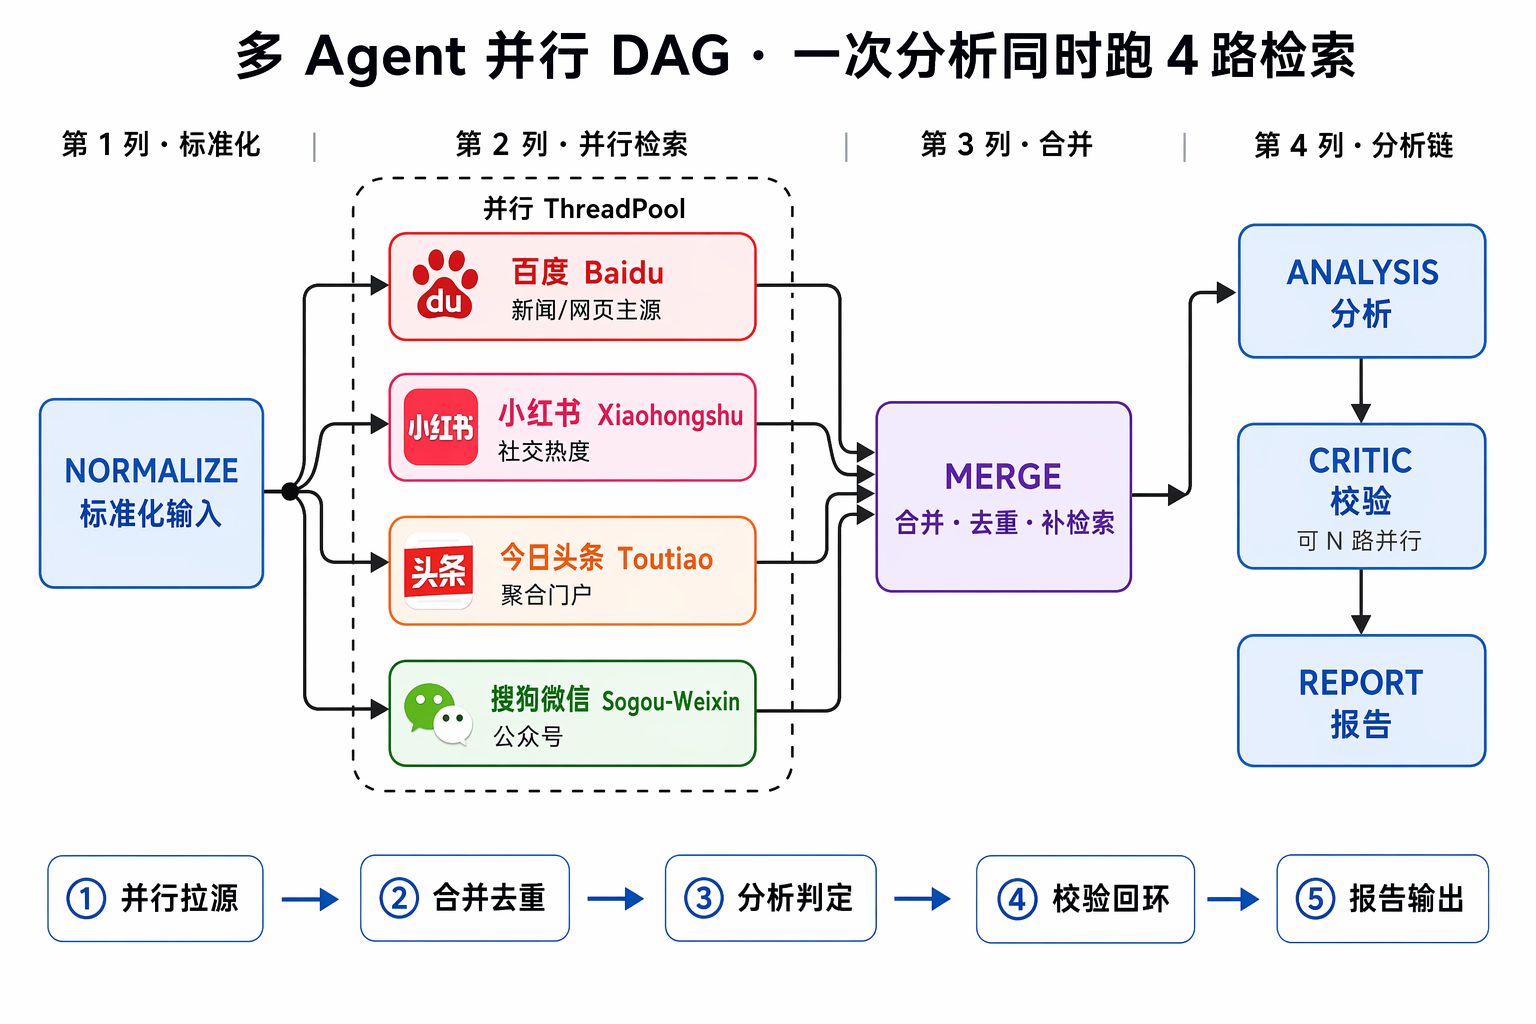
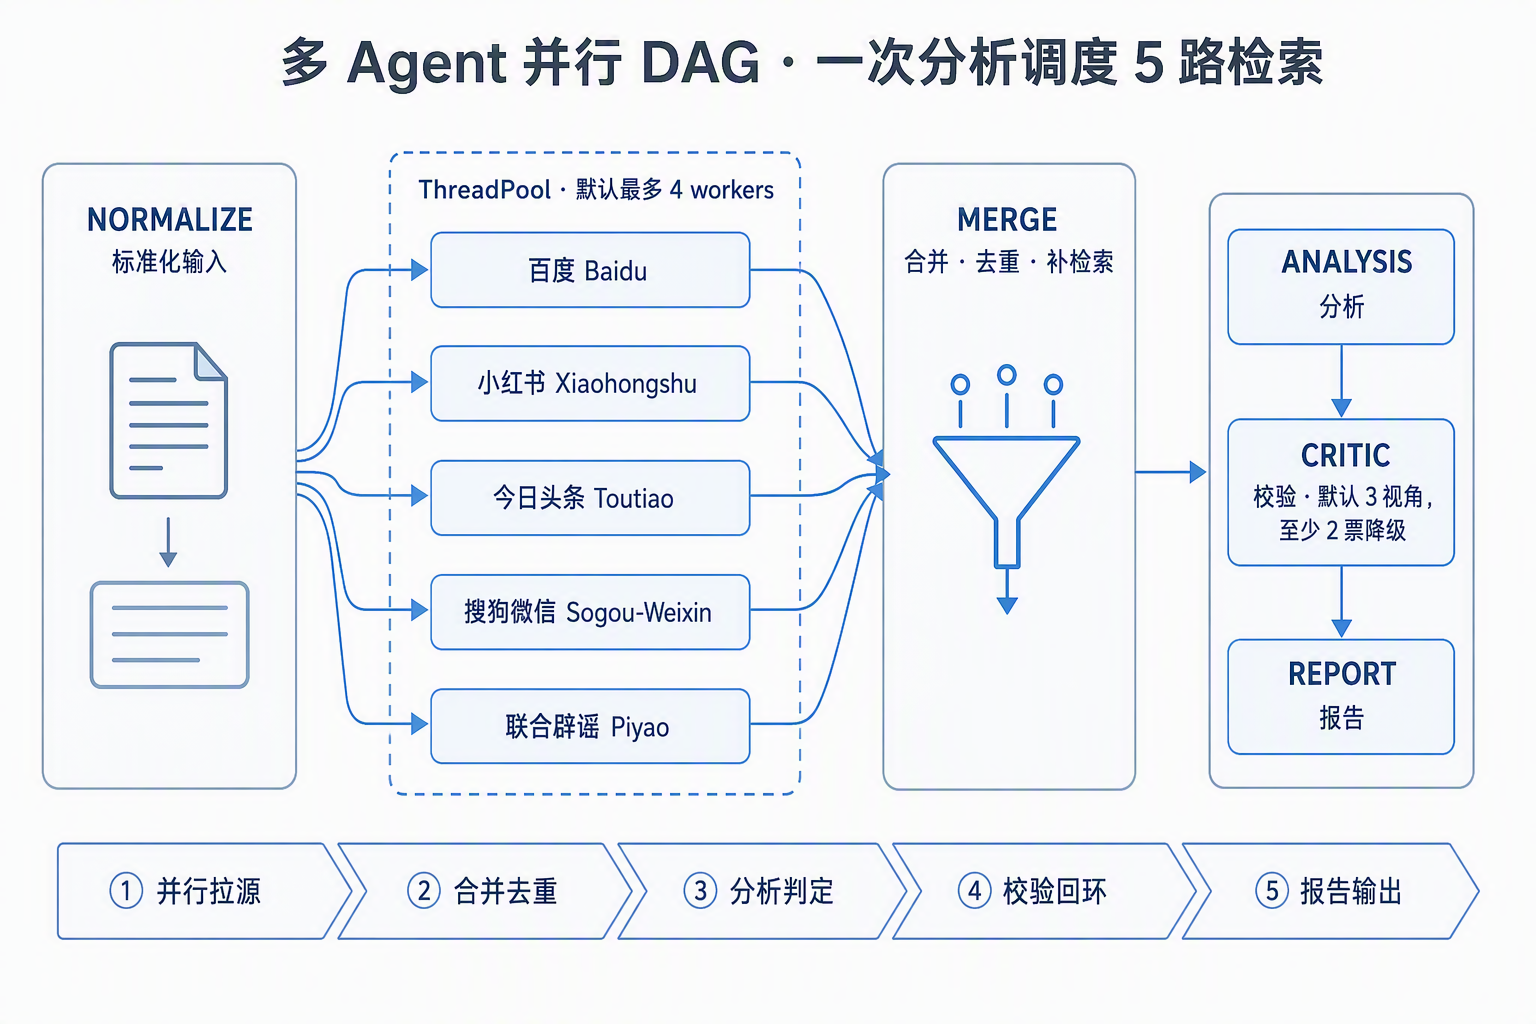
docs: align guides with current runtime

diff --git a/README.md b/README.md
@@ -35,7 +35,7 @@
 |  | 能力 | 关键特征 |
 |---|---|---|
 | 🎯 | **拆 claim 逐条判**  | 一条消息拆成原子事实，每条独立判 `属实 / 不实 / 证据不足 / 各方矛盾`，混合情况不粉饰 |
-| 🌐 | **4 路并行真检索**  | 百度 + 小红书 + 今日头条 + 搜狗微信，同一时刻并发拉取，SERP 日期真实抓取而非伪造 |
+| 🌐 | **5 路真检索**  | 百度 + 小红书 + 今日头条 + 搜狗微信 + 联合辟谣平台，多源调度且 SERP 日期真实抓取而非伪造 |
 | 🔎 | **语义证据重排**  | 证据按「意思相关度」重排(embedding 余弦),治字面撞词;可选、失败自动回退字面打分 |
 | 🧠 | **Agent 多轮迭代**  | 深度档跑「搜 → 判 → 再搜」循环，配合 LLM Critic 单调下调（永不加强判定） |
 | 📊 | **真伪概率**  | 除 verdict 外每条还有 0–100 概率，明确标注是「基于证据」还是「基于常识先验」 |
@@ -54,7 +54,7 @@
 
 1. **输入** — 支持文本、URL、问句三种输入类型
 2. **标准化** — 识别输入类型，抽取标题/摘要/关键词/来源
-3. **并行检索** — 4 路证据源同时拉取，去重、时间戳规范化
+3. **多源检索** — 固定流水线顺序补充 5 路证据源；深度多 Agent 模式并行调度，随后去重并规范化时间戳
 4. **拆 Claim** — 把核心事实和存疑细节各自独立，一条消息可能拆成 3–5 条
 5. **逐条判定** — 每条 claim 独立走 verdict + 真伪概率
 6. **报告** — 组装成带来源标注、时间线、可信度打分的结构化 `Report`
@@ -63,17 +63,17 @@
 
 ## 多 Agent 并行架构
 
-深度档 (`mode=deep`) 开启多 Agent 编排后，检索层从**串行 4 源** 升级为**并行 DAG**：
+深度档 (`mode=deep`) 开启多 Agent 编排后，检索层从**串行 5 源** 升级为**并行 DAG**：
 
 <p align="center">
-  <img src="docs/assets/multi-agent-dag.png" alt="多 Agent 并行 DAG · 一次分析同时跑 4 路检索" width="900">
+  <img src="docs/assets/multi-agent-dag.png" alt="多 Agent 并行 DAG · 一次分析调度 5 路检索" width="900">
 </p>
 
 **为什么这么设计**：
 
-- 4 个源之间没有数据依赖，串行是浪费；ThreadPool 并发拉取，端到端延迟 ≈ 最慢那一源
+- 5 个源之间没有数据依赖，串行是浪费；ThreadPool 默认最多 4 个 worker 并发拉取
 - `NORMALIZE` / `RETRIEVAL_MERGE` 是关键路径节点，任何源失败降级为 `SKIPPED` 空 bundle，`MERGE` 继续跑
-- `CRITIC` 可选多视角并行（`MULTI_AGENT_CRITIC_PERSPECTIVES>1`，N 个独立视角各判一次，取"提示downgrade"的交集）
+- `CRITIC` 可选多视角并行；默认 3 个独立视角，至少 2 个视角同时质疑时才降级
 - `Supervisor.execute_batch` 用 `copy_context().run()` 绑 `ContextVars`，否则 ThreadPool 的 worker 拿不到 `progress` 回调，观测会静默失效
 
 **在代码里**：入口 `backend/app/services/analyze_pipeline.py::_run_multi_agent` · Supervisor `backend/app/agent/multi/supervisor.py` · 6 个 sub-agent 各一个文件在 `backend/app/agent/multi/`
@@ -92,7 +92,7 @@
 
 | 档位 | 触发 | 时延 | 判定路径 | 适用 |
 |---|---|---|---|---|
-| **fast** ⚡ | 默认 / 请求带 `mode=fast` | ~0.2–0.3s | 4 路并行检索 → 规则引擎 verdict | 秒级实时查证 |
+| **fast** ⚡ | 默认 / 请求带 `mode=fast` | ~0.2–0.3s | 5 路检索 → 规则引擎 verdict | 秒级实时查证 |
 | **deep** 🔬 | 请求带 `mode=deep` | 分钟级 | Agent 循环 → LLM synthesis → Critic 校验 → 结构化补全 | 需要更强证据时的深度核查 |
 
 `mode` 只切换分析深度，检索 provider 始终由 `RETRIEVAL_PROVIDER` 决定，两档共用同一套真实检索层。
@@ -181,7 +181,7 @@
 ### 环境要求
 
 - Python `>= 3.12`（CI 用 3.12）
-- Node.js `>= 20.9.0`（`frontend/.nvmrc` 锁定为 20.9.0）
+- Node.js `>= 18.18.0`（推荐并由 `frontend/.nvmrc` 锁定为 20.9.0）
 
 ### 1. 配置环境变量
 
@@ -252,7 +252,7 @@ cd frontend && npm install && npm run dev
 ### 4. 跑测试
 
 ```bash
-pytest backend/tests -q                          # 后端回归 (~630 tests)
+python -m pytest backend/tests/ -q                # 后端回归（当前 700+ tests）
 cd frontend && npm run typecheck && npm test     # 前端类型检查 + 单测
 ```
 
@@ -263,15 +263,16 @@ CI 每次 push/PR 也会跑同一套（见下节）。
 ## 持续集成
 
 <p align="center">
-  <img src="docs/assets/ci-pipeline.png" alt="CI 流水线：backend ruff+pytest / frontend typecheck+build 两个 job 并行" width="900">
+  <img src="docs/assets/ci-pipeline.png" alt="CI 流水线：backend、frontend 与 PR dependency review" width="900">
 </p>
 
-`.github/workflows/ci.yml` 在 push 到 `main` 或 PR 目标为 `main` 时触发，两个 job 并行：
+`.github/workflows/ci.yml` 在 push 到 `main` 或 PR 目标为 `main` 时触发：
 
-- **backend**：`ruff check backend/` → `pytest backend/tests -q`（630 用例）。仅排除 `test_retrieval.py`（内部间接触发 `weixin.sogou.com` / `piyao.org.cn` 真实网络）
-- **frontend**：`npm ci` → `npm run typecheck` → `npm run build`
+- **backend**：安装依赖 → `ruff check backend/` → 契约检查 → 全量 `pytest backend/tests/ -q` → deterministic replay → 上传 replay artifact
+- **frontend**：`npm ci` → `npm run typecheck` → `npm test` → `npm run build`
+- **dependency-review**：仅 PR 运行，阻止引入 high severity 依赖；仓库需先启用 GitHub Dependency Graph
 
-**约束**：ruff 无 `--exit-zero`，任何 lint 违规立刻红；pytest 无失败豁免；两个 job 全绿才允许合并。
+**约束**：ruff 无 `--exit-zero`，任何 lint 违规立刻红；pytest 无失败豁免；CI 不跳过 `test_retrieval.py`。
 
 ---
 
@@ -367,11 +368,12 @@ curl -X POST http://127.0.0.1:8000/api/v1/analyze \
 | `MULTI_AGENT_ENABLED` | `false` | 启用 Supervisor 多 Agent 层 |
 | `MULTI_AGENT_RETRIEVAL_MODE` | `parallel` | `parallel`（推荐）/ `sequential`（回退） |
 | `MULTI_AGENT_MAX_PARALLEL` | `4` | ThreadPool 并发上限 |
-| `MULTI_AGENT_CRITIC_PERSPECTIVES` | `1` | Critic 多视角并行数，>1 时取 downgrade 的并集 |
+| `MULTI_AGENT_CRITIC_PERSPECTIVES` | `3` | Critic 多视角并行数；3 个视角时至少 2 票才降级 |
 | `MULTI_AGENT_LLM_ROUTING_ENABLED` | `false` | 用 LLM 决定 loop_back / finalize（否则走规则阈值） |
 | `TOUTIAO_SEARCH_ENABLED` | `true` | 今日头条源 |
 | `SOGOU_WEIXIN_SEARCH_ENABLED` | `true` | 搜狗微信源 |
 | `XHS_SEARCH_ENABLED` | `true` | 小红书源（需 `xhs-cli`） |
+| `PIYAO_SEARCH_ENABLED` | `true` | 中国互联网联合辟谣平台源 |
 
 ---
 

diff --git a/docs/current-code-architecture-guide.md b/docs/current-code-architecture-guide.md
@@ -1,6 +1,6 @@
 # 代码结构与架构详解
 
-> 更新时间：2026-08-03（Asia/Shanghai）
+> 更新时间：2026-08-29（Asia/Shanghai）
 > 
 > 目的：把这套代码「怎么分层、怎么跑、每个模块干什么」讲清楚。所有链接和口径与当前主分支代码一致。
 
@@ -50,7 +50,7 @@
 |---|---|---|---|
 | 1 | **输入** | 前端 `SearchInput` | `AnalyzeRequest` |
 | 2 | **标准化** | `InputNormalizer` | `NormalizedEvent`（标题、摘要、关键词、来源、input_type） |
-| 3 | **并行检索** | `RetrievalService` / 多 Agent 4 路 | `RetrievalBundle`（canonical_results、grade） |
+| 3 | **多源检索** | `RetrievalService` 顺序补充 / 多 Agent 5 路并行调度 | `RetrievalBundle`（canonical_results、grade） |
 | 4 | **拆 Claim** | `ClaimExtractor` / LLM synthesis | 原子 fact/statement/opinion 列表 |
 | 5 | **逐条判定** | `VerdictEngine` + LLM 补判 / Critic | 每条 `verdict + confidence + truth_probability + evidence` |
 | 6 | **报告** | `ReportBuilder` + `PipelineTraceBuilder` | `Report`（前端消费） |
@@ -71,7 +71,7 @@ rumor-checking/
 │  │  ├─ agent/              # Agent 编排层（含 multi/ 多 Agent DAG）
 │  │  ├─ agent_tools/        # 把 services 里的能力薄封装成工具
 │  │  └─ services/           # 真正的业务流水线与能力组件
-│  ├─ tests/                 # 后端测试（~630 用例）
+│  ├─ tests/                 # 后端测试（700+ 用例）
 │  └─ eval_regression_tests/ # 回归相关脚本
 ├─ frontend/
 │  ├─ app/                   # Next.js 页面入口与全局样式
@@ -158,7 +158,9 @@ rumor-checking/
 | [possibilities-section.tsx](../frontend/components/possibilities-section.tsx) | 「可能性分布」与「更可能的答案」 |
 | [timeline-section.tsx](../frontend/components/timeline-section.tsx) | 传播时间线（日期由后端从 SERP 真实抽取，不足时降级为「时间未知」） |
 | [trace-timeline.tsx](../frontend/components/trace-timeline.tsx) | 底部执行过程 trace（默认折叠） |
+| [agent-span-tree.tsx](../frontend/components/agent-span-tree.tsx) | Agent span 树与父子调用关系 |
 | [run-metrics-panel.tsx](../frontend/components/run-metrics-panel.tsx) | 深度档观测面板：per-agent elapsed_ms、source_hits、tokens |
+| [credibility-header.tsx](../frontend/components/credibility-header.tsx) | 总体可信度与分数摘要 |
 | [lib/api-client.ts](../frontend/lib/api-client.ts) | 请求 `/health`、`/models`、`/analyze`、`/analyze/stream`，解析 NDJSON |
 | [lib/report-utils.ts](../frontend/lib/report-utils.ts) | 展示层二次整理：verdict 标签、置信度格式化、来源分级 meta |
 
@@ -212,7 +214,8 @@ sequenceDiagram
 | [playwright_search_provider.py](../backend/app/services/playwright_search_provider.py) | httpx 抓百度/Bing SERP，**从 `prefix-time` span 真实抽取日期**（支持绝对/相对/中文三种格式） |
 | [toutiao_search_provider.py](../backend/app/services/toutiao_search_provider.py) | 今日头条源（httpx SERP 抓取） |
 | [sogou_weixin_provider.py](../backend/app/services/sogou_weixin_provider.py) | 搜狗微信公众号源，tier 判定基于 `source_name`（不受标题攻击） |
-| [xhs_provider.py](../backend/app/services/xhs_provider.py) | 小红书源（走 xhs-cli） |
+| [xhs_search_provider.py](../backend/app/services/xhs_search_provider.py) | 小红书源（走 xhs-cli） |
+| [piyao_provider.py](../backend/app/services/piyao_provider.py) | 中国互联网联合辟谣平台源，统一标记为 `official_debunking` |
 | [question_resolver.py](../backend/app/services/question_resolver.py) | 对问句做事件收束，只在 `question_only` 路径生效 |
 | [agent_reasoner.py](../backend/app/services/agent_reasoner.py) | `LlmAgentReasoner`：LLM synthesis + critic + question resolution + 序列规划 |
 | [claim_extractor.py](../backend/app/services/claim_extractor.py) | 把一句话拆成原子 claim |
@@ -243,7 +246,7 @@ sequenceDiagram
 深度档 + `MULTI_AGENT_ENABLED=true` 会走一层 **Supervisor 多 Agent DAG**，把原来的串行检索改成并行拉源：
 
 <p align="center">
-  <img src="assets/multi-agent-dag.png" alt="多 Agent 并行 DAG · 一次分析同时跑 4 路检索" width="900">
+  <img src="assets/multi-agent-dag.png" alt="多 Agent 并行 DAG · 一次分析调度 5 路检索" width="900">
 </p>
 
 ### 7.1 触发条件
@@ -261,15 +264,16 @@ deep_mode + AGENT_ORCHESTRATOR_ENABLED + MULTI_AGENT_ENABLED
 ```
 NORMALIZE
     ├─→ RETRIEVAL_BAIDU     ┐
-    ├─→ RETRIEVAL_XHS       │  4 路并行（ThreadPool）
+    ├─→ RETRIEVAL_XHS       │  5 路调度（ThreadPool，默认 4 workers）
     ├─→ RETRIEVAL_TOUTIAO   │
-    └─→ RETRIEVAL_WEIXIN    ┘
+    ├─→ RETRIEVAL_WEIXIN    │
+    └─→ RETRIEVAL_PIYAO     ┘
                  ↓
            RETRIEVAL_MERGE   合并 · 去重 · 补检索
                  ↓
              ANALYSIS
                  ↓
-              CRITIC          可选 N 路多视角并行
+              CRITIC          默认 3 视角并行，至少 2 票才降级
                  ↓
               REPORT
 ```
@@ -283,7 +287,7 @@ NORMALIZE
 | [multi/__init__.py](../backend/app/agent/multi/__init__.py) | Protocol 定义（`AgentRole` / `AgentConfig` / `SubAgent` / `SubAgentResult`） |
 | [multi/supervisor.py](../backend/app/agent/multi/supervisor.py) | 编排：拓扑排序、`_ready_agents`、`_execute_batch`、loop_back、`_emit_run_summary` |
 | [multi/normalize_agent.py](../backend/app/agent/multi/normalize_agent.py) | 输入标准化 |
-| [multi/source_agents.py](../backend/app/agent/multi/source_agents.py) | 工厂 `build_source_agents` + `SOURCE_ROLES`，4 个源共用同一个 `SourceRetrievalAgent` 类 |
+| [multi/source_agents.py](../backend/app/agent/multi/source_agents.py) | 工厂 `build_source_agents` + `SOURCE_ROLES`，5 个源共用同一个 `SourceRetrievalAgent` 类 |
 | [multi/merge_agent.py](../backend/app/agent/multi/merge_agent.py) | 命名空间化 result_id (`baidu::…`)、`merge_search_results`、跑 resolve_question / follow_up / fetch_url |
 | [multi/retrieval_agent.py](../backend/app/agent/multi/retrieval_agent.py) | sequential 模式的单体节点 |
 | [multi/analysis_agent.py](../backend/app/agent/multi/analysis_agent.py) | 依赖参数化（`depends_on=RETRIEVAL_MERGE` 或 `RETRIEVAL`） |

diff --git a/backend/README.md b/backend/README.md
@@ -2,7 +2,7 @@
 
 FastAPI 主进程。产品能力/两档核查/概率维度看主 [README.md](../README.md)；这里只讲后端目录本身的接口、运行方式和边界。
 
-更新时间：2026-08-03（Asia/Shanghai）
+更新时间：2026-08-29（Asia/Shanghai）
 
 ## 当前接口
 
@@ -45,8 +45,11 @@ RETRIEVAL_FALLBACK_TO_MOCK=true
 - `RETRIEVAL_CACHE_ENABLED` / `RETRIEVAL_CACHE_TTL_SECONDS` / `RETRIEVAL_CACHE_ALLOW_STALE_ON_ERROR` / `RETRIEVAL_CACHE_DIR`
 - `RETRIEVAL_GDELT_BASE_URL`
 - `LLM_SEARCH_MODEL`
+- `XHS_SEARCH_ENABLED` / `TOUTIAO_SEARCH_ENABLED` / `SOGOU_WEIXIN_SEARCH_ENABLED` / `PIYAO_SEARCH_ENABLED`
 
 **Provider 枚举**：`mock | playwright | gdelt | kimi | off`。对照说明见主 [README.md](../README.md#接口与运行路径)。
+
+`google_news_rss_provider.py` 当前是未接入 `RetrievalService` 的实验实现，`RETRIEVAL_GOOGLE_NEWS_ENDPOINT` 仅为该实现预留；不要把它当作可选 `RETRIEVAL_PROVIDER` 值。
 
 **证据质量增强（可选，默认关，失败自动回退）**：
 

diff --git a/frontend/README.md b/frontend/README.md
@@ -2,7 +2,7 @@
 
 Next.js 单页前端。产品能力/两档/概率维度看主 [README.md](../README.md)；这里只讲前端目录本身的运行方式、目录结构和边界。
 
-更新时间：2026-08-03（Asia/Shanghai）
+更新时间：2026-08-29（Asia/Shanghai）
 
 ## 当前实现
 
@@ -46,7 +46,7 @@ npm run build
 ## 目录
 
 - `app/` — Next.js 页面入口、根布局、全局样式
-- `components/` — `analyze-page.tsx`（编排）+ `verdict-card` / `claim-list` / `evidence-list` / `possibilities-section` / `search-input` / `timeline-section` / `trace-timeline`
+- `components/` — `analyze-page.tsx`（编排）+ `credibility-header` / `verdict-card` / `claim-list` / `evidence-list` / `possibilities-section` / `search-input` / `timeline-section` / `trace-timeline` / `agent-span-tree` / `run-metrics-panel`
 - `lib/` — API client、解析、展示辅助
 - `types/` — 前端消费的 `Report` 类型
 

diff --git a/CONTRIBUTING.md b/CONTRIBUTING.md
@@ -33,6 +33,7 @@ npm run build
 ## Evaluation changes
 
 - Treat `evals/live_replay/seed/` as a regression corpus, not training data.
+- Use `evals/live_replay/hard/` for difficult end-to-end replay cases and add focused assertions under `backend/eval_regression_tests/` when replay behavior must stay locked.
 - Add cases for new failure modes rather than rewriting expected labels to fit current output.
 - Report category-level changes for time-sensitive, stale-news, subject-mismatch, and conflicting-source cases.
 - Keep retrieval snapshots free of secrets and personal data.

diff --git a/docs/README.md b/docs/README.md
@@ -13,6 +13,7 @@
 - [Public schemas](../contracts/README.md): backend/frontend contract ownership and drift checks.
 - [Minimal evaluation set](../evals/minimal_v1/README.md): deterministic component fixtures.
 - `evals/live_replay/seed/`: versioned end-to-end replay corpus.
+- `evals/live_replay/hard/`: harder replay corpus for regressions around timeliness, subject alignment, and conflicting evidence.
 - [Contributing](../CONTRIBUTING.md): development workflow and validation commands.
 - [Security](../SECURITY.md): vulnerability and sensitive-data policy.
 

diff --git a/contracts/README.md b/contracts/README.md
@@ -2,7 +2,7 @@
 
 本目录是前后端共享协议的唯一落点。
 
-更新时间：2026-03-26（Asia/Shanghai）
+更新时间：2026-08-29（Asia/Shanghai）
 
 ## 当前内容
 
